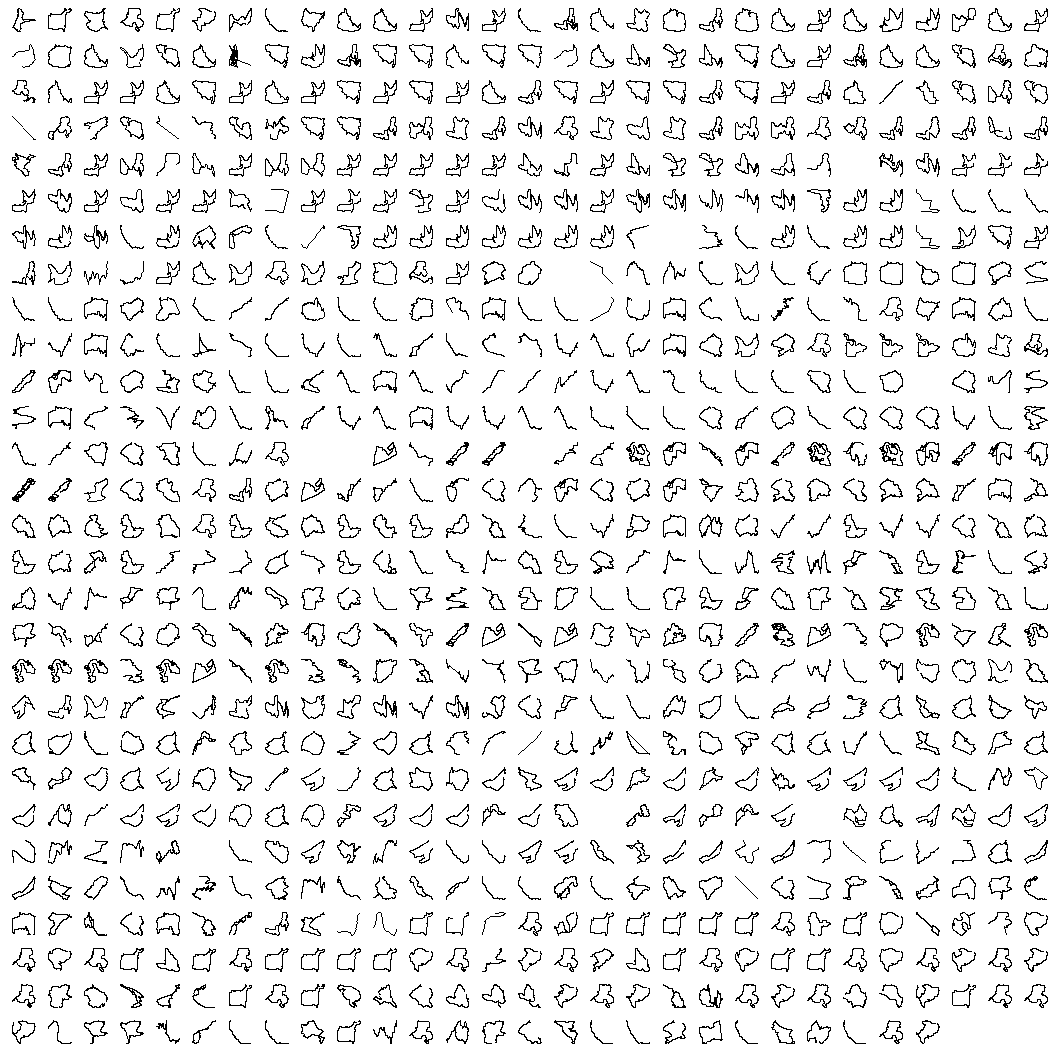
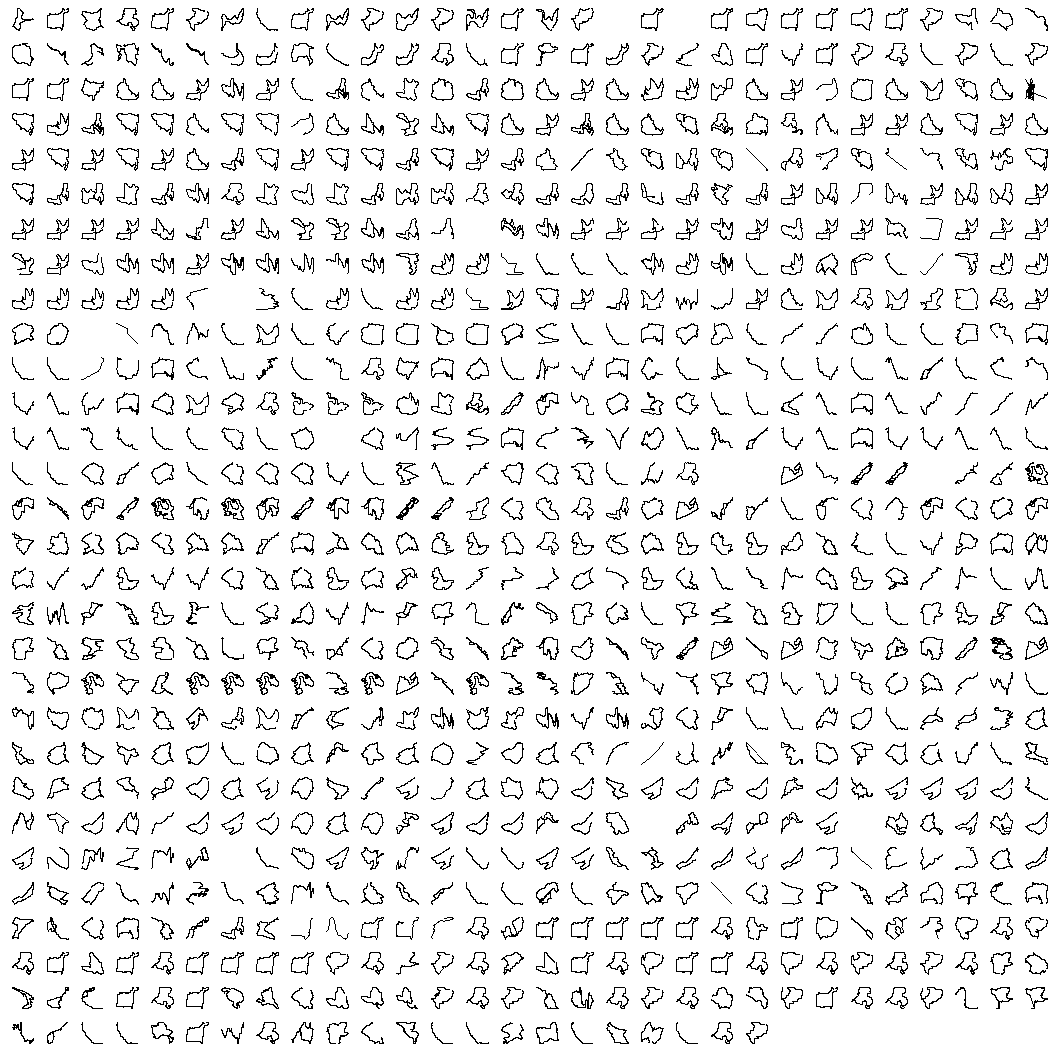
Retry request if rate limit is reached

Changed region(s): [[0.0, 0.0, 1.0, 1.0], [0.7188, 0.375, 0.75, 0.4062]]

diff --git a/README.md b/README.md
@@ -13,12 +13,14 @@ You will need the following packages:
 
     library(shinydashboard)
     library(reactablefmtr)
+    library(Microsoft365R)
     library(tarchetypes)
     library(conflicted)
     library(reactable)
     library(tidyverse)
     library(lubridate)
     library(jsonlite)
+    library(distill)
     library(tsibble)
     library(shinyjs)
     library(targets)
@@ -144,20 +146,26 @@ The resulting data frame consists of one row per activity. Make sure
 that all ID columns have a character format and improve the column
 names.
 
-    ## # A tibble: 839 × 7
-    ##    name   id    start_date              week distance total_elevation_gain type 
-    ##    <chr>  <chr> <dttm>                <week>    <dbl>                <dbl> <chr>
-    ##  1 "Fahr… 1015… 2023-11-04 12:24:35 2023 W44   17984.                 70.9 Ride 
-    ##  2 "Zeit… 1014… 2023-11-01 09:50:16 2023 W44    5206.                132.  Run  
-    ##  3 "Hard… 1011… 2023-10-27 15:20:42 2023 W43    6018.                127.  Run  
-    ##  4 "11KM" 1009… 2023-10-24 16:15:44 2023 W43    4562.                 38.5 Run  
-    ##  5 "Pick… 1005… 2023-10-16 14:52:57 2023 W42    4720.                121.  Run  
-    ##  6 "Cicl… 1003… 2023-10-13 14:21:21 2023 W41   38116.                513   Ride 
-    ##  7 "1210… 1002… 2023-10-12 17:16:59 2023 W41    4538.                 38.5 Run  
-    ##  8 "Mona… 1001… 2023-10-10 15:54:22 2023 W41    4718                  84.1 Run  
-    ##  9 "Mord… 9995… 2023-10-07 16:06:55 2023 W40    6101.                126.  Run  
-    ## 10 "Hard… 9988… 2023-10-06 15:07:33 2023 W40    4904.                128.  Run  
-    ## # ℹ 829 more rows
+    ## # A tibble: 893 × 58
+    ##    resource_state athlete$id name              distance moving_time elapsed_time
+    ##             <int>      <int> <chr>                <dbl>       <int>        <int>
+    ##  1              2   26845822 Vergecast            4517.        1917         2010
+    ##  2              2   26845822 Ball you need is…    4364.        1887         1893
+    ##  3              2   26845822 Zeit Verbrechen      5919.        2881         2944
+    ##  4              2   26845822 Radfahrt am Abend   17690         2390         2391
+    ##  5              2   26845822 Weltspiegel          5906.        2718         2776
+    ##  6              2   26845822 TSG Fulda           16793.        2286         2446
+    ##  7              2   26845822 Vergecast            4699.        2228         2294
+    ##  8              2   26845822 Ball you need is…    6011.        2688         2710
+    ##  9              2   26845822 CopaTS               4581.        1939         1939
+    ## 10              2   26845822 Tieringen           16131.        2818         2818
+    ## # ℹ 883 more rows
+    ## # ℹ 53 more variables: athlete$resource_state <int>,
+    ## #   total_elevation_gain <dbl>, type <chr>, sport_type <chr>,
+    ## #   workout_type <int>, id <chr>, start_date <dttm>, start_date_local <chr>,
+    ## #   timezone <chr>, utc_offset <dbl>, location_city <lgl>,
+    ## #   location_state <lgl>, location_country <chr>, achievement_count <int>,
+    ## #   kudos_count <int>, comment_count <int>, athlete_count <int>, …
 
 Extract ids of all activities. Exclude activities which were recorded
 manually, because they don’t include additional data:
@@ -190,7 +198,11 @@ columns.
           "distance,time,latlng,altitude,velocity_smooth,heartrate,cadence,",
           "watts,temp,moving,grade_smooth")) |>
         req_url_path_append(id) |>
-        req_url_path_append("streams")
+        req_url_path_append("streams") |>
+        req_retry(
+          is_transient = \(resp) resp_status(resp) %in% c(429),
+          max_tries = 2,
+          after = ~ 905)
 
       resp <- req_perform(req)
 
@@ -199,23 +211,23 @@ columns.
       df_stream_raw <- resp |>
         resp_body_json(simplifyVector = TRUE) |>
         as_tibble() |>
-        mutate(id = id) %>%
+        mutate(id = id) |>
         pivot_wider(names_from = type, values_from = data)
 
       if ("latlng" %in% colnames(df_stream_raw)) {
-        df_stream <- df_stream_raw %>%
+        df_stream <- df_stream_raw |>
           mutate(
             lat = map(
               .x = latlng, .f = ~ .x[, 1]),
             lng = map(
-              .x = latlng, .f = ~ .x[, 2])) %>%
+              .x = latlng, .f = ~ .x[, 2])) |>
           select(-latlng)
       } else {
         df_stream <- df_stream_raw
       }
 
-      df_stream %>%
-        unnest(where(is_list)) %>%
+      df_stream |>
+        unnest(where(is_list)) |>
         mutate(id = id)
     }
 
